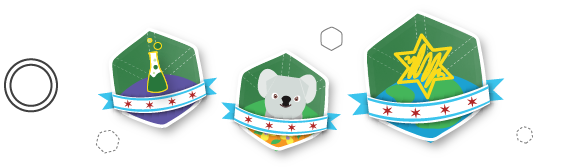
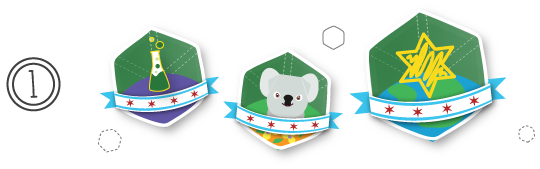
Replace images on level up page and remove markup

diff --git a/views/challenges/index.html b/views/challenges/index.html
@@ -15,24 +15,15 @@
 	<h3>
 		How to unlock challenges:
 	</h3>
-	<div style="position:relative; background:url('/media/img/levelup-1.png'); width:569px; height:168px;">
-		<span style="position:relative;font-size:24px;left:24px;top:74px">1</span>
-	</div>
+	<img width="540" height="169" src="/media/img/levelup-1.png">
 	<p class="b">
 		First you earn badges from various programs, self-paced online activities and games.
 	</p>
-	<div style="position:relative; background:url('/media/img/levelup-2.png'); width:711px; height:191px;">
-		<span style="position:relative;font-size:24px;left:24px;top:43px">2</span>
-	</div>
+	<img width="724" height="169" src="/media/img/levelup-2.png">
 	<p class="b">
 		By earning a combination of these badges, you are awarded the city-level badges for work in science, technology, engineering, arts and math, which are called STEAM fields.
 	</p>
-
-	<div style="position:relative; background:url('/media/img/levelup-3.png'); width:570px; height:197px;">
-		<a style="text-decoration:none;color:#000;" href="http://www.explorechi.org/l/pathways/" target="_blank">
-			<span style="position:relative;font-size:24px;left:24px;top:54px">3</span>
-		</a>
-	</div>
+	<img width="611" height="169" src="/media/img/levelup-3.png">
 	<p>
 		These STEAM badges unlock access to citywide challenges. You can choose to demonstrate your new skills and build cool things for Chicago while earning more badges.
 	</p>
